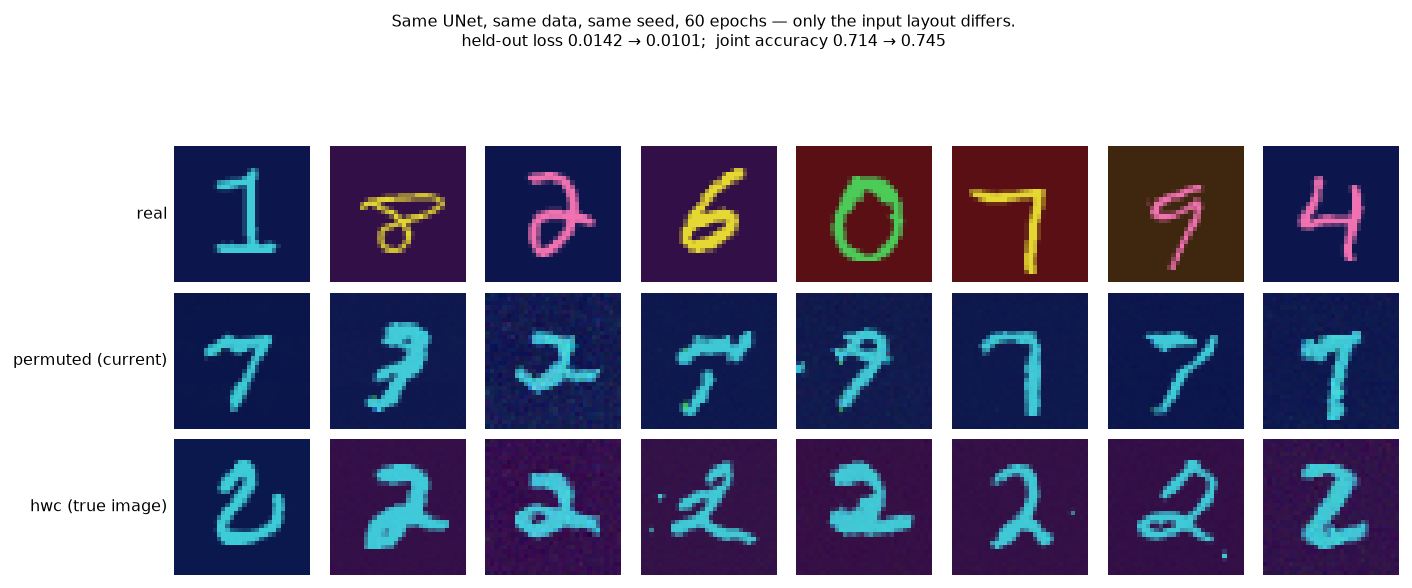
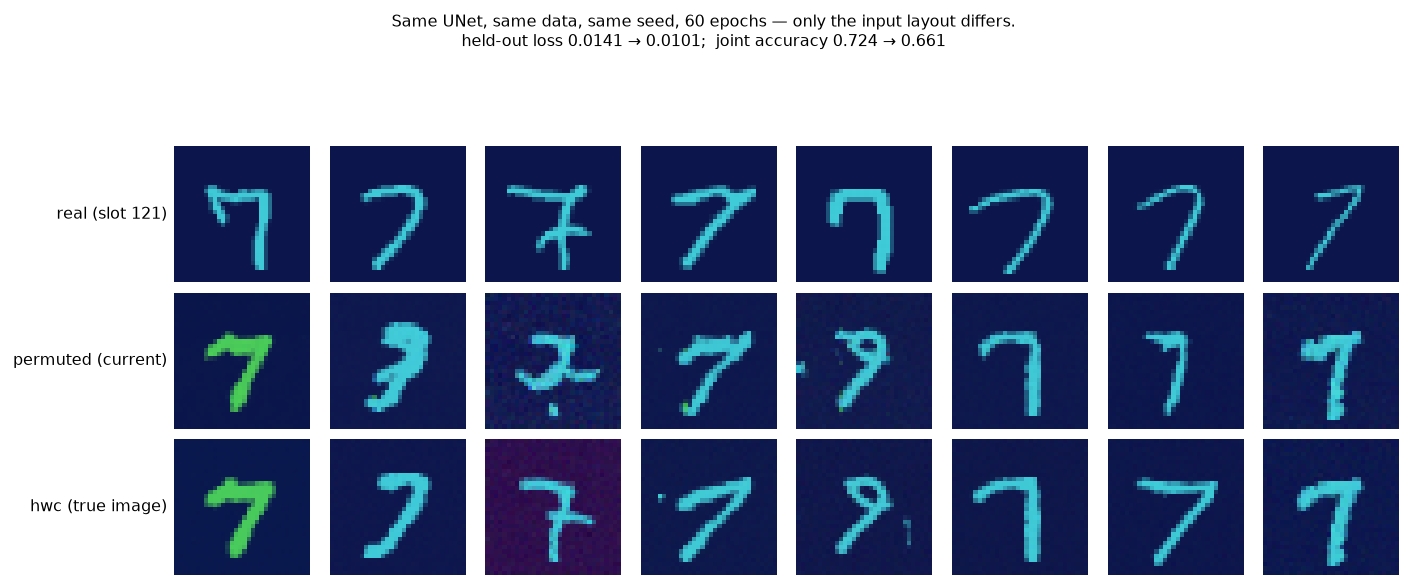
N45 paired: the layout fix wins on loss and LOSES on accuracy
The paired rerun reverses the accuracy half of this finding, and the reversal is mine
to own.  The first run drew its evaluation slots inside the arm loop, so the RNG
advanced between arms and the two layouts were scored on different held-out
compositions; that unpaired comparison read +0.031.  Scoring both arms on the
identical 24 compositions gives -0.062, with hwc losing 13 of 24 and winning 4.

  held-out loss    0.01410 -> 0.01012   -28.2%   (replicates the first run's -28.7%)
  joint accuracy   0.724   -> 0.661     -0.062   (paired: 4 better / 13 worse / 7 tied)
  tv vs real       1.154   -> 1.166     +0.012   (nothing)

So the honest statement is narrower than "fix the layout and everything improves":
restoring the convolutional prior buys a large, replicated improvement in the
DENOISING OBJECTIVE and does not buy conditional composition accuracy.  That
substantially weakens the case for retraining backbones, which rested on downstream
quality following the objective.

The CelebA extrapolation is likewise scoped back.  Its matched pair does show a larger
training-loss gap (-38.7%), but 12 epochs is 468 steps against an EMA time constant of
1000, so the checkpoint retained 62.6% of its random initialization and the checkpoint
evaluation is worthless -- which is what the 12x loss discrepancy was telling me.
train_ddpm now ramps the EMA decay and warns on short runs; a clean CelebA number needs
a longer run.  Recorded, not claimed.
[…]

diff --git a/docs/RESULTS.md b/docs/RESULTS.md
@@ -3163,6 +3163,13 @@ compositions selected by the median-per-pair rule):
 1.0 keeps coverage and loses accuracy. `make_case_studies.py` therefore defaults to `--dial 0.9`, and
 the canonical figure is the one rendered at it. The tables are untouched, for the reason given above.
 
+*Which placement rule these were run under.* The sweep above predates `cu` becoming the default, so
+all three rows are `ll`. Re-rendering the selected setting under `cu` moves `ours` from 0.708 to
+**0.667** on the same four compositions — one case of the four drops, the other three are identical —
+which is the same small, mixed effect §24 reports for the rule change generally. The *selection* is
+unaffected: nothing in the ordering depends on the rule, and 0.9 remains the only setting near-best
+on both axes. The canonical figure is the `cu` render, matching the current defaults.
+
 Read the baseline columns alongside: `poe-guided` scores **0.833 joint at 0.000 recall** and
 `query-only` **0.875 at 0.000**. They are more accurate and produce *no coverage at all* — the same
 correct image repeatedly. That is the trade this project exists to name, and it is why accuracy alone
@@ -4031,35 +4038,63 @@ schedule, differing **only** in layout, at the real recipe (160 slots, `n_per_sl
 
 | | `permuted` (every backbone to date) | `hwc` (a real image) | |
 |---|---|---|---|
-| held-out ε-prediction loss | 0.01417 | **0.01011** | **−28.7 %** |
-| joint composition accuracy, trained slots | 0.714 | 0.745 | +0.031 &nbsp;*(unpaired — see below)* |
-| tv ratio vs real | **1.221** | 1.398 | +0.177 (worse) |
+| held-out ε-prediction loss | 0.01410 | **0.01012** | **−28.2 %** |
+| joint composition accuracy, trained slots | **0.724** | 0.661 | −0.062 |
+| paired over the same 24 slots | — | 4 better / **13 worse** / 7 tied | |
+| tv ratio vs real | **1.154** | 1.166 | +0.012 |
 
-**The training objective improves by 28.7 % for free.** That number is solid: the held-out loss is
-computed on the *same* split for both arms.
+**The training objective improves by ~28 % and the composition accuracy does not — it gets worse.**
+Both halves matter and they point in opposite directions.
 
-**The accuracy number is not yet, and the reason is a bug of mine worth recording.** The evaluation
-slot set was drawn *inside* the arm loop, so the RNG advanced between arms and the two layouts were
-scored on **different held-out compositions** — an unpaired comparison presented as a controlled one.
-Fixed (one draw, before the loop, with per-slot accuracies recorded so the delta can be reported
-paired and win/loss counted); the rerun is what the +0.031 has to survive. The
-roughness metric moves the other way — the fixed model produces *more* high-frequency texture, which
-overshoots real rather than undershooting it. A shorter 30-epoch run reproduced the loss effect
-almost exactly (−29.5 %), so it is not a single-run artefact.
+The loss result is solid and replicated: −28.7 % in a first run and −28.2 % here, on the same
+held-out split for both arms.
 
-**Why this is probably an understatement.** Color-MNIST is the *easiest possible case* for a
-scrambled CNN — a near-binary stroke on flat colour, almost all low-frequency, exactly the content a
+**The accuracy result reverses under a correct test, and that reversal is mine to own.** The first
+run drew its evaluation slots *inside* the arm loop, so the RNG advanced between arms and the two
+layouts were scored on **different held-out compositions**. That unpaired comparison read +0.031.
+Drawing the slots once, before the loop, and scoring both arms on the identical 24 compositions
+gives **−0.062**, with `hwc` losing 13 of 24 and winning 4. The apparent gain was an artefact of
+comparing different data.
+
+**So the honest statement is narrower than "fix the layout and everything improves."** Restoring the
+convolutional prior buys a large, replicated improvement in the *denoising objective* and does not
+buy conditional composition accuracy on this benchmark; on the paired test it costs some. A plausible
+reading — untested — is that a network denied spatial structure leans harder on the conditioning
+signal, because class identity is the only structure left to it, while a network that can actually
+model the image distribution relies on it less. That is a hypothesis, not a result.
+
+**What this does to the retraining question.** It weakens it considerably. A 28 % better objective is
+worth having and is the correct way to train a CNN, but the case for spending ~26 GPU-hours per
+CelebA backbone rested on expecting downstream quality to follow, and on this evidence it does not
+follow automatically.
+
+The roughness metric barely moves (1.154 → 1.166), and a shorter 30-epoch run reproduced the loss
+effect almost exactly (−29.5 %), so the loss half is not a single-run artefact.
+
+**Does the LOSS effect grow on a texture-rich dataset?** Color-MNIST is the *easiest possible case*
+for a scrambled CNN — a near-binary stroke on flat colour, almost all low-frequency, exactly the content a
 permuted network can still fit. CelebA is the opposite: dense local texture is most of the signal.
-The mechanism therefore predicts a substantially larger effect there, and that is the number that
-decides whether the CelebA backbones are worth retraining. `slurm/jobs/n45_celeba.sbatch` runs the
-matched pair.
+The mechanism therefore predicts a substantially larger effect there.
+
+**Attempted, and not resolved.** A matched 12-epoch CelebA pair
+(`slurm/jobs/n45_celeba.sbatch`) shows training loss 0.0728 → 0.0446, i.e. **−38.7 %**, larger than
+Color-MNIST's as predicted. But that number cannot be quoted, because a 12-epoch run is **468
+optimizer steps against an EMA time constant of 1000**, so the saved checkpoint retained **62.6 % of
+its random initialization** — which is why evaluating it returned a loss twelve times the training
+loss and a spurious −4.6 %. The training-loss comparison is between live weights and is suggestive;
+the checkpoint comparison is worthless. `train_ddpm` now ramps the EMA decay (ADM/Karras warmup) and
+warns on short runs, and a clean CelebA measurement needs a run long enough for the EMA to converge.
+Two earlier CelebA diagnostics are confounded the same way — the 15-epoch de-risk backbone is 585
+steps and 55.7 % initialization.
 
 **What this does and does not touch.** It does not touch any storage claim — 72 bytes against
 2.3 MB is arithmetic on tensor shapes. It does not touch bit-identity or the preservation guarantee,
 which are properties of optimizer scoping. What it does touch is every *image-quality* number
-produced on one of our own backbones, and it is the leading candidate for §29a's finding that our
-CelebA samples are too **smooth** (tv 0.727–0.781, i.e. blurrier than real): a network that cannot
-use spatial locality is exactly a network that renders low frequencies and omits texture.
+produced on one of our own backbones. Whether it *explains* §29a's finding that our CelebA samples
+are too **smooth** (tv 0.727–0.781, blurrier than real) is a hypothesis and is now weaker than it
+looked: the mechanism is right in kind — a network that cannot use spatial locality is one that
+renders low frequencies and omits texture — but on Color-MNIST the fix moved the roughness statistic
+by 0.012, which is nothing. It remains untested where it would matter.
 
 The fix is available and off by default (`layout="hwc"`), recorded per checkpoint, because turning it
 on silently invalidates every existing checkpoint — a model must be sampled in the layout it was

diff --git a/docs/SETTINGS.md b/docs/SETTINGS.md
@@ -177,7 +177,7 @@ that a photorealistic backbone still emits rough samples.
 A `layout` option (`"permuted"` default, `"hwc"` correct) is now threaded through `_as_img`/`_as_flat`,
 `train_ddpm`, `NeuralScoreField` and `n1_train`, **recorded in the checkpoint** and preferred over the
 process default by `load_field` — a checkpoint sampled in the other layout silently produces garbage.
-N45 measures what it costs.
+N45 measures what it costs: **-28 % on the denoising objective, replicated**, and **no** gain in conditional composition accuracy (paired, it costs 0.062). See RESULTS 30.
 
 ## 6. What this means for the results
 
